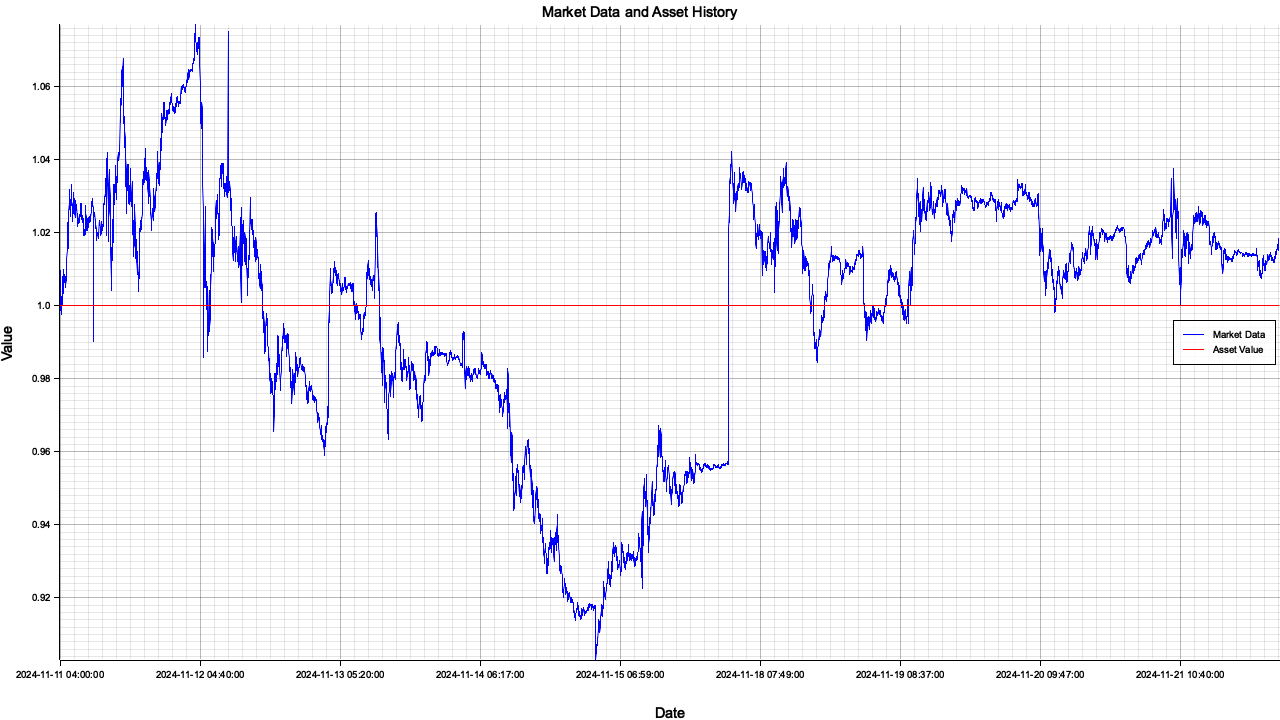
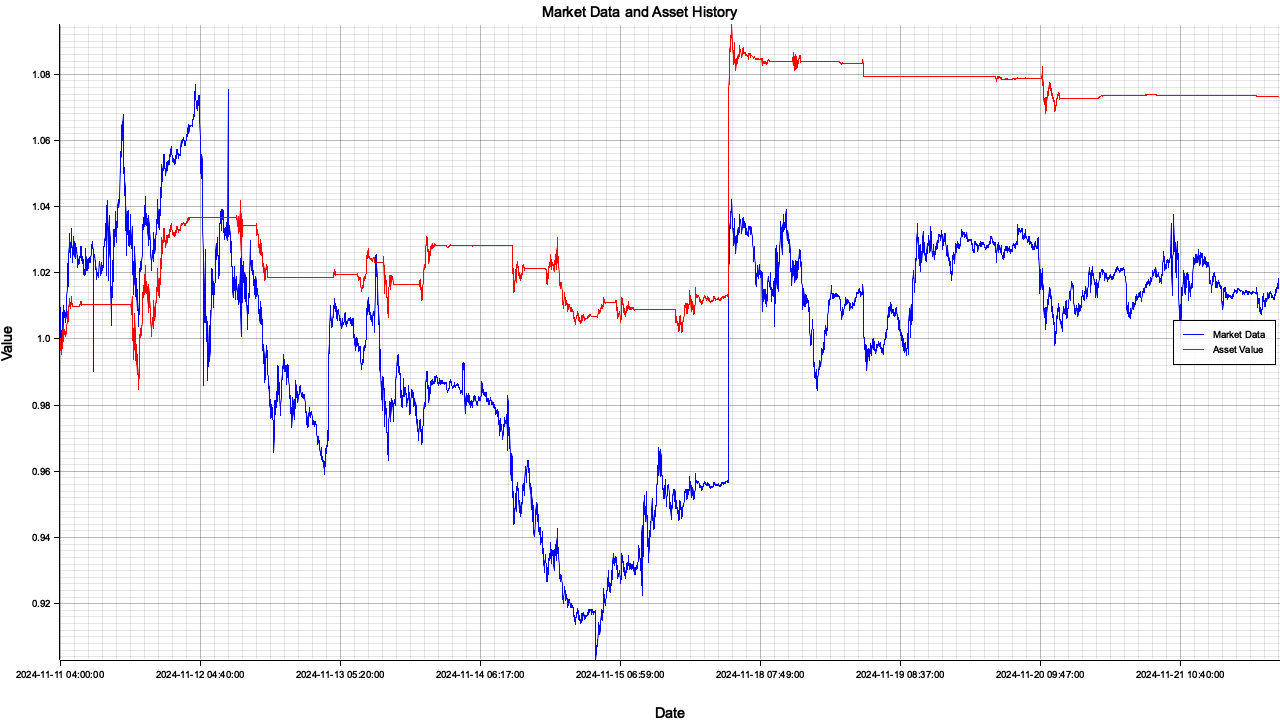
Minor Updates

Changed region(s): [[0.0312, 0.0306, 1.0, 0.9167]]

diff --git a/src/market_data_feeder.rs b/src/market_data_feeder.rs
@@ -50,15 +50,54 @@ impl MarketDataFeeder {
         // let mut first_data = true;
 
         for result in reader.records() {
+            // let record = result.expect("Failed to read record");
+            // let timestamp= record[0].to_string();
+            // let open= record[1].parse().expect("Invalid open value");
+            // let high= record[2].parse().expect("Invalid high value");
+            // let low= record[3].parse().expect("Invalid low value");
+            // let close= record[4].parse().expect("Invalid close value");
+            // let volume= record[5].parse().expect("Invalid volume value");
+            // let symbol = "TSLA".to_string() ;
+            // let market_data_event = Event::new_market_data(timestamp, symbol, open, close, high, low, volume);
+
             let record = result.expect("Failed to read record");
-            let timestamp= record[0].to_string();
-            let open= record[1].parse().expect("Invalid open value");
-            let high= record[2].parse().expect("Invalid high value");
-            let low= record[3].parse().expect("Invalid low value");
-            let close= record[4].parse().expect("Invalid close value");
-            let volume= record[5].parse().expect("Invalid volume value");
-            let symbol = "TSLA".to_string() ;
-            let market_data_event = Event::new_market_data(timestamp, symbol, open, close, high, low, volume);
+    // Parse the timestamp (Date)
+    let timestamp = record[0].to_string();
+    
+    // Parse the Close/Last price (removing the '$' sign)
+    let close: f64 = record[1]
+        .trim_start_matches('$')
+        .parse()
+        .expect("Invalid close value");
+    
+    // Parse the Volume
+    let volume: i32 = record[2]
+        .parse()
+        .expect("Invalid volume value");
+    
+    // Parse the Open price (removing the '$' sign)
+    let open: f64 = record[3]
+        .trim_start_matches('$')
+        .parse()
+        .expect("Invalid open value");
+    
+    // Parse the High price (removing the '$' sign)
+    let high: f64 = record[4]
+        .trim_start_matches('$')
+        .parse()
+        .expect("Invalid high value");
+    
+    // Parse the Low price (removing the '$' sign)
+    let low: f64 = record[5]
+        .trim_start_matches('$')
+        .parse()
+        .expect("Invalid low value");
+    
+    // Set a hardcoded symbol (e.g., TSLA)
+    let symbol = "TSLA".to_string();
+    
+    // Create a MarketDataEvent
+    let market_data_event = Event::new_market_data(timestamp, symbol, open, close, high, low, volume);
 
             // Send data through the channel
             // println!("MarketDataFeeder: Sending: {:?}", market_data);
@@ -83,7 +122,7 @@ impl MarketDataFeeder {
             //     thread::sleep(std::time::Duration::from_millis(1));
             //     first_data = false;
             // }
-            // thread::sleep(std::time::Duration::from_millis(1));
+            thread::sleep(std::time::Duration::from_millis(1));
             // break;
         }
     }

diff --git a/src/strategy_manager.rs b/src/strategy_manager.rs
@@ -3,6 +3,9 @@ use crate::MarketDataEvent;
 use crate::event_manager::{ModulePublish, ModuleReceive};
 use crate::events::*;
 use crossbeam::channel::{Sender, Receiver, bounded};
+use core::time;
+use std::time::Duration;
+use std::thread;
 
 pub trait Strategy {
     /// Called when market data is received.
@@ -55,6 +58,7 @@ impl StrategyManager {
                 Event::MarketData(market_data_event) => {
                     println!("Strategy: Received: {:?}", market_data_event);
                     self.process_marketevent(market_data_event, &mut events_to_publish);
+                    // thread::sleep(time::Duration::from_secs(1));
                 }
                 Event::PortfolioInfo(portfolio_info_event) => {
                     println!("Strategy: Received: {:?}", portfolio_info_event);

diff --git a/src/event_manager.rs b/src/event_manager.rs
@@ -135,11 +135,6 @@ impl EventManager {
             if let Ok(event) = self.lp_receiver.try_recv() {
                 self.dispatch_event(event);
                 start = Instant::now();
-                // After dispatching a low-priority event, check for new high-priority events
-                // while let Ok(event) = self.hp_receiver.try_recv() {
-                //     self.dispatch_event(event);
-                // }
-
             } else {
                 // If no events are available, you may want to sleep or handle idle state
                 // For example:

diff --git a/src/strategies/strategy_limit_price.rs b/src/strategies/strategy_limit_price.rs
@@ -35,7 +35,7 @@ impl Strategy for StrategyLimitPrice {
         self.moving_window.update(market_data_event.close as f32);
         
         let ma_short = self.moving_window.average(5);
-        let ma_long = self.moving_window.average(10);
+        let ma_long = self.moving_window.average(20);
         let quantity = (self.portfolio_local.available_cash / (market_data_event.close * self.price_factor)).floor() as i32;
         
         // ma_short > ma_long buy and last signal is sell

diff --git a/src/mock_exchange.rs b/src/mock_exchange.rs
@@ -94,7 +94,7 @@ impl MockExchange {
 
     fn process_marketevent(&mut self, market_data_event: MarketDataEvent) {
         println!("MEX: Received: {:?}", market_data_event);
-    
+        
         // Calculate the mean price from market data
         let mean_price = (market_data_event.high + market_data_event.low) / 2.0;
         // println!("MEX: Calculated mean price: {}", mean_price);

diff --git a/src/main.rs b/src/main.rs
@@ -70,7 +70,7 @@ fn main() {
 
     // Start feeding data
     let _market_data_feeder_thread = thread::spawn(move || {
-        market_data_feeder.start_feeding("./data/TSLA_1min_sample.csv");
+        market_data_feeder.start_feeding("./data/TSLA_DAY_80D.csv");
     });
 
     event_manager.proceed();
